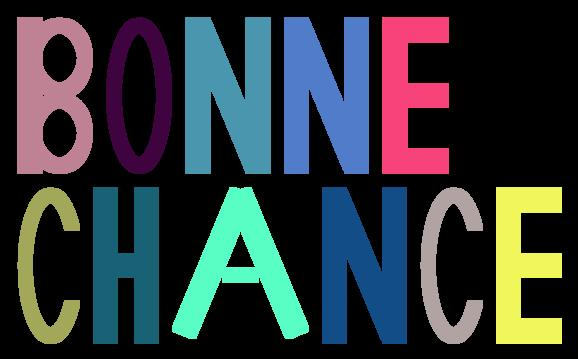
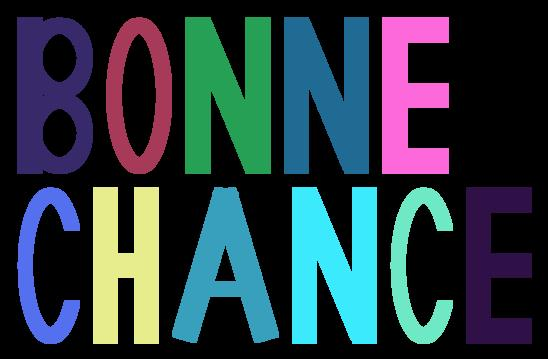
A fix...

diff --git a/src/main/java/Letter/LetterFactory.java b/src/main/java/Letter/LetterFactory.java
@@ -18,13 +18,14 @@ public final class LetterFactory {
      * @return BaseShape containing the letter A
      */
     public static BaseShape create_A()  {
-        Double angle = Math.PI/8;
+        Double angle = Math.PI/11;
         BaseShape letterA = new BaseShape();
         Rectangle leftBar = new Rectangle(stripeThickness,maxHeight);
         Rectangle rightBar = leftBar.clone();
         Rectangle centerBar = new Rectangle(halfMaxWidth, halfStripeThickness);
-        leftBar.translate(new Point2d(-halfMaxWidth,0.0));
-        rightBar.translate(new Point2d(halfMaxWidth,0.0));
+        centerBar.translate(new Point2d(0.0,stripeThickness));
+        leftBar.translate(new Point2d(-halfMaxWidth + halfStripeThickness,0.0));
+        rightBar.translate(new Point2d(halfMaxWidth - halfStripeThickness ,0.0));
         leftBar.rotate(angle);
         rightBar.rotate(-angle);
         letterA.add(leftBar);
